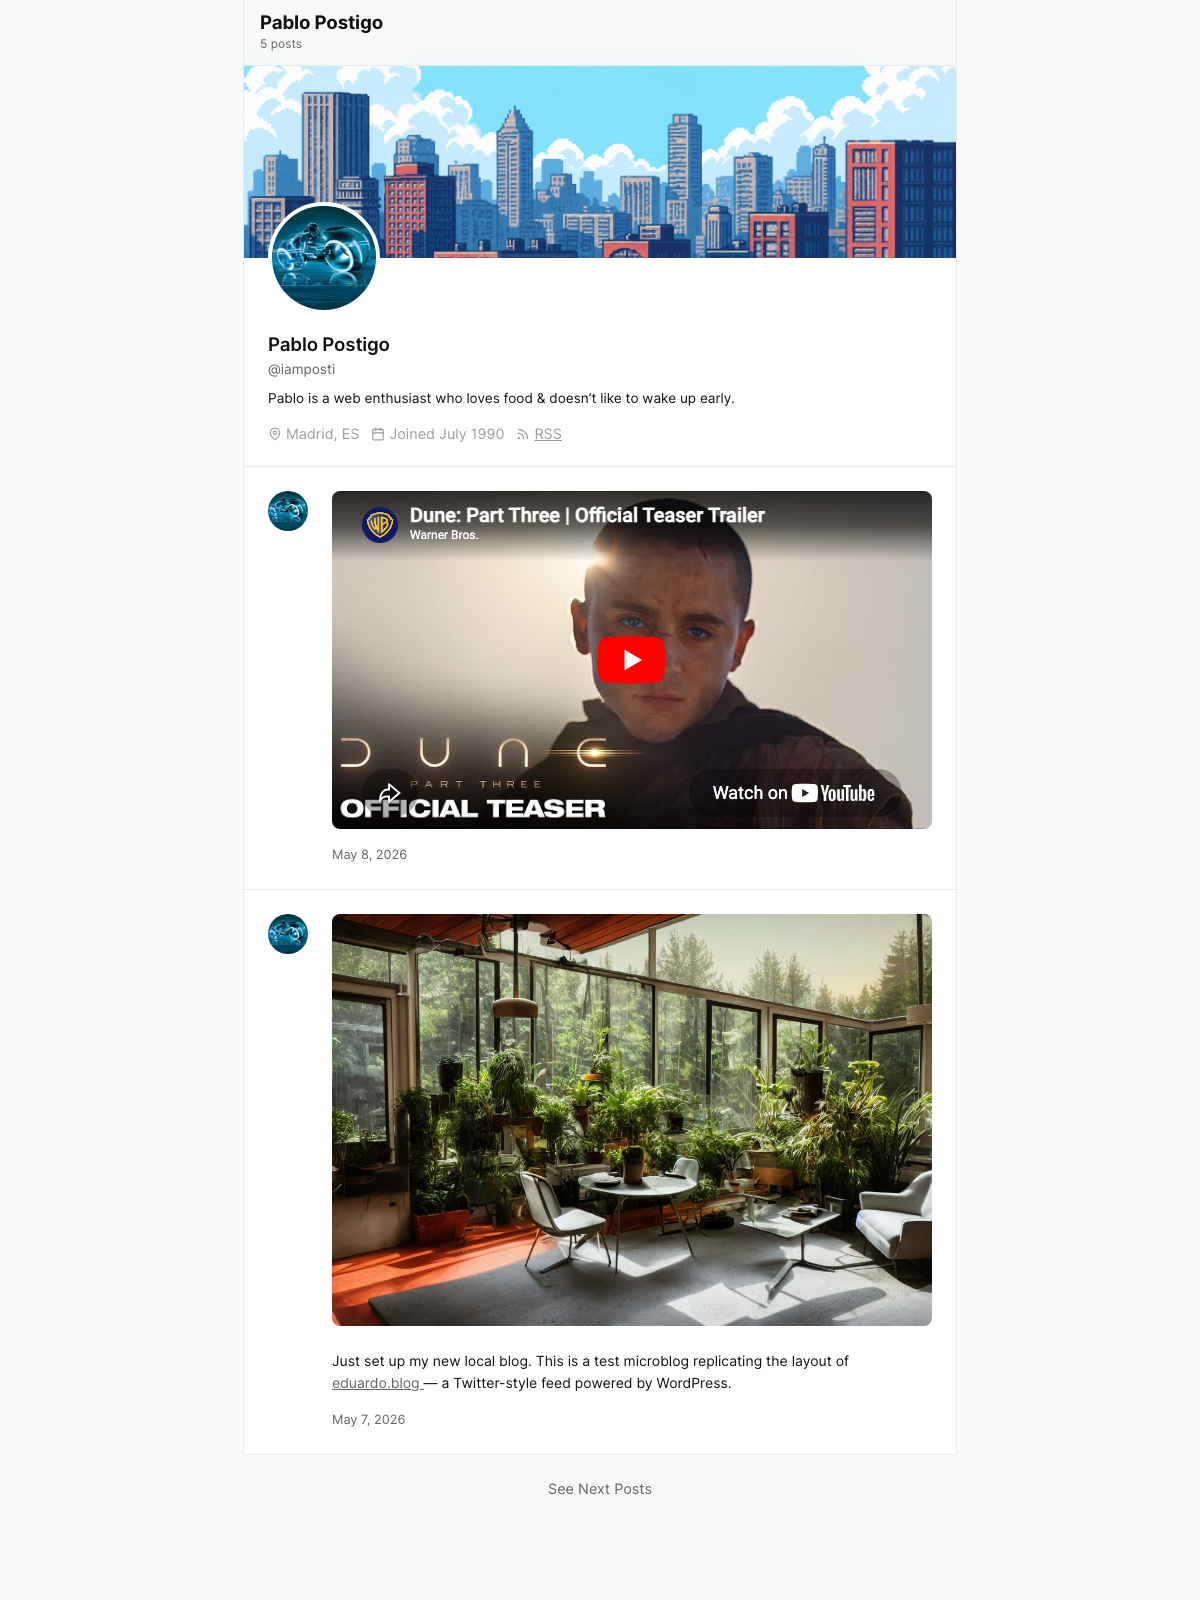
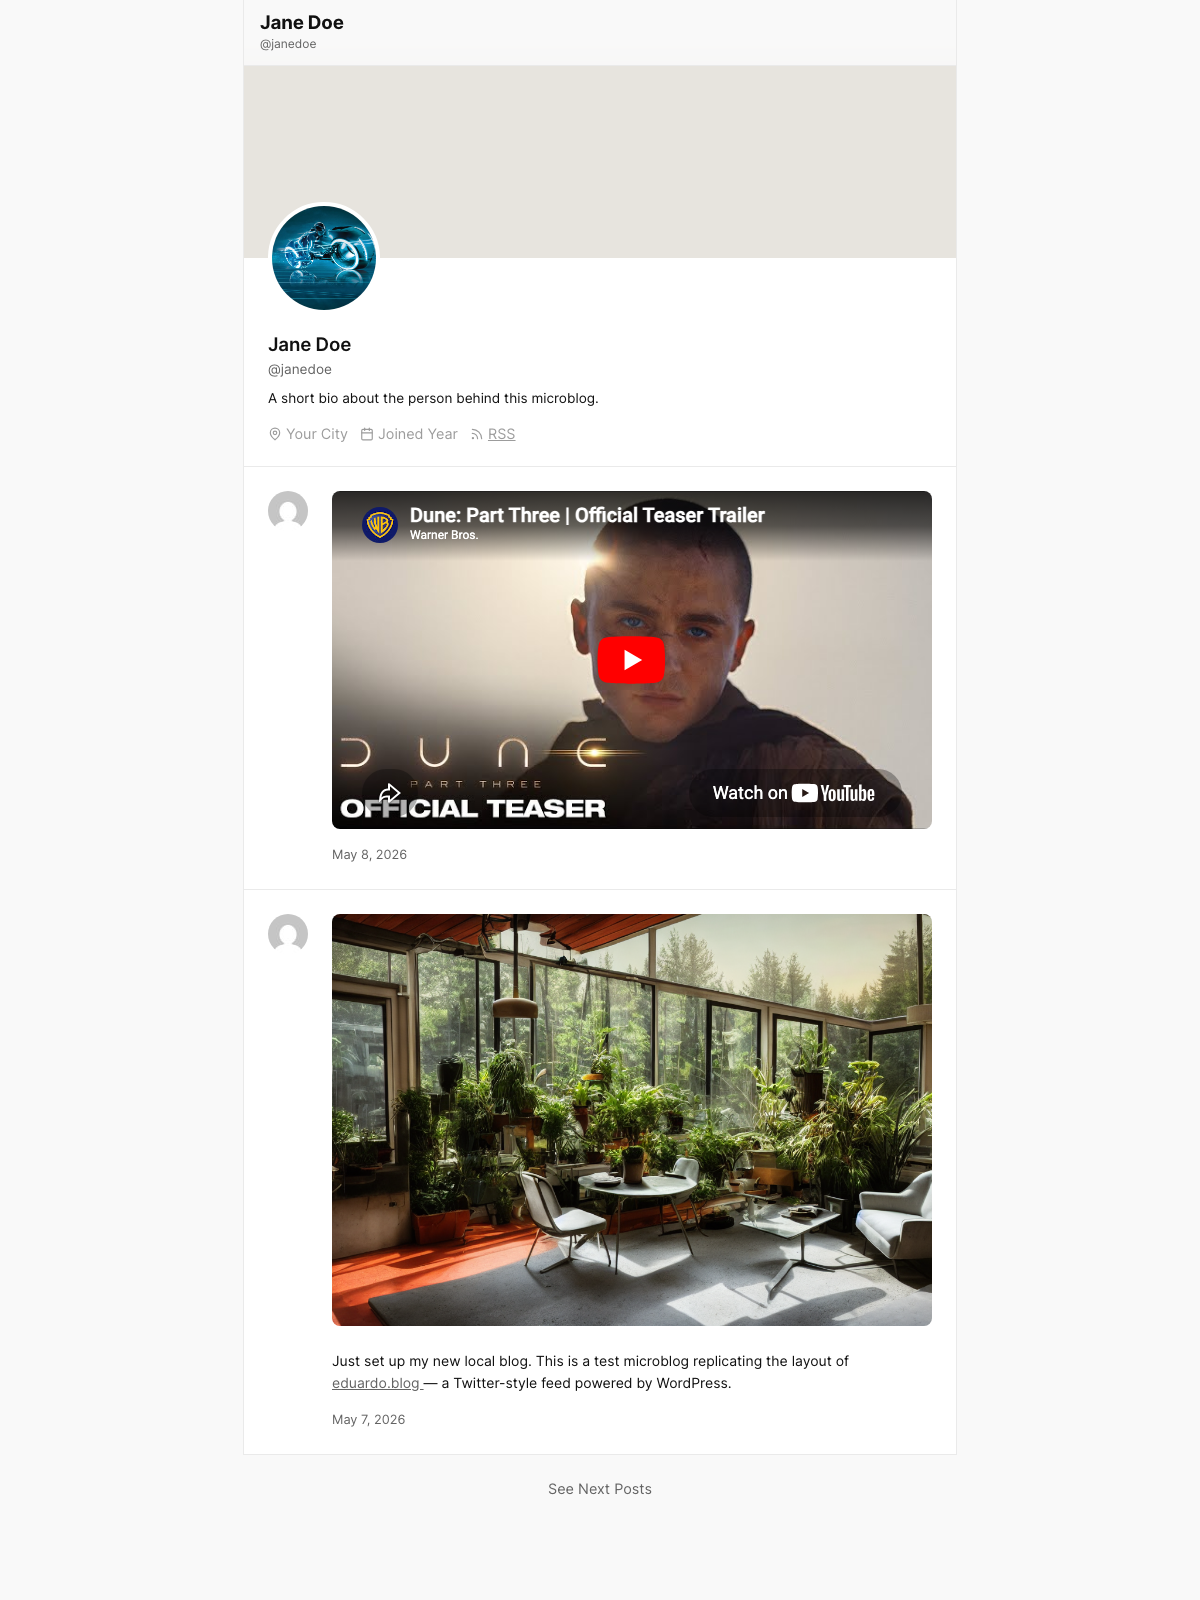
Replace screenshots with neutral demo content
Use placeholder profile (Jane Doe / @janedoe) and the
sanitized header defaults so the screenshots match what
users see on a fresh install.

Changed region(s): [[0.185, 0.0, 0.8017, 0.2812], [0.2158, 0.5625, 0.2775, 0.5938], [0.2158, 0.3125, 0.2775, 0.3438]]

diff --git a/templates/404.html b/templates/404.html
@@ -1,21 +1,45 @@
-<!-- wp:template-part {"slug":"header"} /-->
+<!-- wp:template-part {"slug":"topbar"} /-->
 
-<!-- wp:group {"tagName":"main"} -->
-<main class="wp-block-group">
-	<!-- wp:group {"layout":{"type":"constrained"}} -->
-	<div class="wp-block-group">
-		<!-- wp:heading {"level":1} -->
-		<h1 class="wp-block-heading">Page not found</h1>
-		<!-- /wp:heading -->
+<!-- wp:template-part {"slug":"header","tagName":"header"} /-->
 
-		<!-- wp:paragraph -->
-		<p>The page you were looking for doesn't exist. Try a search instead.</p>
-		<!-- /wp:paragraph -->
+<!-- wp:group {"align":"full","tagName":"main","style":{"spacing":{"margin":{"top":"0"},"blockGap":"0"}},"layout":{"type":"constrained"}} -->
+<main class="wp-block-group alignfull" style="margin-top:0">
 
-		<!-- wp:search {"label":"Search","showLabel":false,"buttonText":"Search"} /-->
-	</div>
-	<!-- /wp:group -->
+  <!-- wp:group {"className":"single-card","style":{"border":{"color":"var(--wp--preset--color--custom-border-light)","width":"1px"},"spacing":{"padding":{"top":"0","right":"0","bottom":"0","left":"0"},"margin":{"top":"0","bottom":"0"},"blockGap":"0"}},"layout":{"type":"flex","orientation":"vertical","flexWrap":"nowrap"}} -->
+  <div class="wp-block-group single-card has-border-color" style="border-color:var(--wp--preset--color--custom-border-light);border-width:1px;padding-top:0;padding-right:0;padding-bottom:0;padding-left:0;margin-top:0;margin-bottom:0">
+
+    <!-- wp:group {"className":"single-nav","style":{"spacing":{"padding":{"top":"6px","right":"16px","bottom":"6px","left":"8px"},"margin":{"top":"0","bottom":"0"},"blockGap":"0"}},"layout":{"type":"flex","flexWrap":"nowrap","verticalAlignment":"center","justifyContent":"left"}} -->
+    <div class="wp-block-group single-nav" style="padding-top:6px;padding-right:16px;padding-bottom:6px;padding-left:8px;margin-top:0;margin-bottom:0">
+
+      <!-- wp:html --><a class="single-back-arrow" href="/" rel="home" aria-label="Back to home"><svg xmlns="http://www.w3.org/2000/svg" width="20" height="20" viewBox="0 0 24 24" fill="none" stroke="currentColor" stroke-width="2.25" stroke-linecap="round" stroke-linejoin="round" aria-hidden="true"><path d="M19 12H5"/><path d="m12 5-7 7 7 7"/></svg></a><!-- /wp:html -->
+
+      <!-- wp:paragraph {"className":"single-post-label","style":{"spacing":{"margin":{"top":"0","bottom":"0"}},"typography":{"fontSize":"1.1rem","fontWeight":"700"}}} -->
+      <p class="single-post-label" style="margin-top:0;margin-bottom:0;font-size:1.1rem;font-weight:700">404</p>
+      <!-- /wp:paragraph -->
+
+    </div>
+    <!-- /wp:group -->
+
+    <!-- wp:group {"className":"post-card not-found-body","style":{"spacing":{"padding":{"top":"24px","right":"24px","bottom":"24px","left":"24px"},"margin":{"top":"0","bottom":"0"}}},"layout":{"type":"constrained"}} -->
+    <div class="wp-block-group post-card not-found-body" style="padding-top:24px;padding-right:24px;padding-bottom:24px;padding-left:24px;margin-top:0;margin-bottom:0">
+
+      <!-- wp:heading {"level":2,"className":"not-found-title"} -->
+      <h2 class="wp-block-heading not-found-title">Page not found</h2>
+      <!-- /wp:heading -->
+
+      <!-- wp:paragraph {"className":"not-found-text"} -->
+      <p class="not-found-text">The page you were looking for doesn&#8217;t exist. Try searching for it instead.</p>
+      <!-- /wp:paragraph -->
+
+      <!-- wp:search {"label":"Search","showLabel":false,"placeholder":"Search posts\u2026","buttonText":"Search","buttonPosition":"button-inside","className":"not-found-search"} /-->
+
+    </div>
+    <!-- /wp:group -->
+
+  </div>
+  <!-- /wp:group -->
+
 </main>
 <!-- /wp:group -->
 
-<!-- wp:template-part {"slug":"footer"} /-->
+<!-- wp:template-part {"slug":"footer","tagName":"footer"} /-->

diff --git a/style.css b/style.css
@@ -698,6 +698,89 @@ main > .wp-block-buttons .wp-block-button__link:focus {
   border-color: #efefef !important;
 }
 
+/* === 404 === */
+
+/* Body container: same surface as a post body, no hover (it’s the destination). */
+.not-found-body,
+.not-found-body:hover {
+  background: transparent !important;
+  transition: none !important;
+}
+
+/* Title — same Cardo treatment as h2 in the rest of the site. */
+.not-found-title {
+  font-family: var(--wp--preset--font-family--heading);
+  font-size: var(--wp--preset--font-size--x-large);
+  font-weight: 400;
+  line-height: 1.15;
+  letter-spacing: -0.01em;
+  margin: 0 0 0.5rem 0;
+  color: var(--wp--preset--color--contrast);
+}
+
+/* Body copy — inherit paragraph size/line-height set in typography. */
+.not-found-text {
+  font-size: 14px;
+  line-height: 1.55;
+  color: var(--wp--preset--color--contrast-2);
+  margin: 0 0 1.25rem 0;
+}
+
+/* Search field — match the theme: rounded, contrast border, no shadow. */
+.not-found-search .wp-block-search__inside-wrapper {
+  border: 1px solid var(--wp--preset--color--custom-border-light);
+  border-radius: 8px;
+  background: var(--wp--preset--color--base);
+  padding: 4px;
+  transition: border-color 0.15s ease;
+}
+
+.not-found-search .wp-block-search__inside-wrapper:focus-within {
+  border-color: var(--wp--preset--color--contrast-3);
+}
+
+.not-found-search .wp-block-search__input {
+  font-family: var(--wp--preset--font-family--body);
+  font-size: 14px;
+  line-height: 1.55;
+  color: var(--wp--preset--color--contrast);
+  background: transparent;
+  border: none;
+  padding: 6px 10px;
+  min-width: 0;
+}
+
+.not-found-search .wp-block-search__input::placeholder {
+  color: var(--wp--preset--color--contrast-3);
+}
+
+.not-found-search .wp-block-search__input:focus {
+  outline: none;
+}
+
+/* Search submit — same look as the “See More Posts” button. */
+.not-found-search .wp-block-search__button {
+  font-family: var(--wp--preset--font-family--body);
+  font-size: 0.85rem;
+  font-weight: 400;
+  line-height: 1;
+  color: var(--wp--preset--color--contrast-2);
+  background: var(--wp--preset--color--base);
+  border: 1px solid var(--wp--preset--color--base);
+  border-radius: 6px;
+  padding: 8px 14px;
+  margin: 0;
+  cursor: pointer;
+  transition: background 0.15s ease, border-color 0.15s ease;
+}
+
+.not-found-search .wp-block-search__button:hover,
+.not-found-search .wp-block-search__button:focus {
+  background: #efefef;
+  border-color: #efefef;
+  color: var(--wp--preset--color--contrast-2);
+}
+
 /* === pagination === */
 
 nav.wp-block-query-pagination {
@@ -865,6 +948,28 @@ nav.wp-block-query-pagination > div:has(> .pagination-btn:only-child) {
   .site-header .wp-block-site-logo img,
   .wp-block-avatar img {
     opacity: 0.9;
+  }
+
+  /* 404 search */
+  .not-found-search .wp-block-search__inside-wrapper {
+    background: var(--wp--preset--color--base-2);
+    border-color: var(--wp--preset--color--custom-border-light);
+  }
+
+  .not-found-search .wp-block-search__input {
+    color: var(--wp--preset--color--contrast);
+  }
+
+  .not-found-search .wp-block-search__button {
+    background: var(--wp--preset--color--base-2) !important;
+    border-color: var(--wp--preset--color--custom-border-light) !important;
+    color: var(--wp--preset--color--contrast-2) !important;
+  }
+
+  .not-found-search .wp-block-search__button:hover,
+  .not-found-search .wp-block-search__button:focus {
+    background: #252525 !important;
+    border-color: #252525 !important;
   }
 }
 
